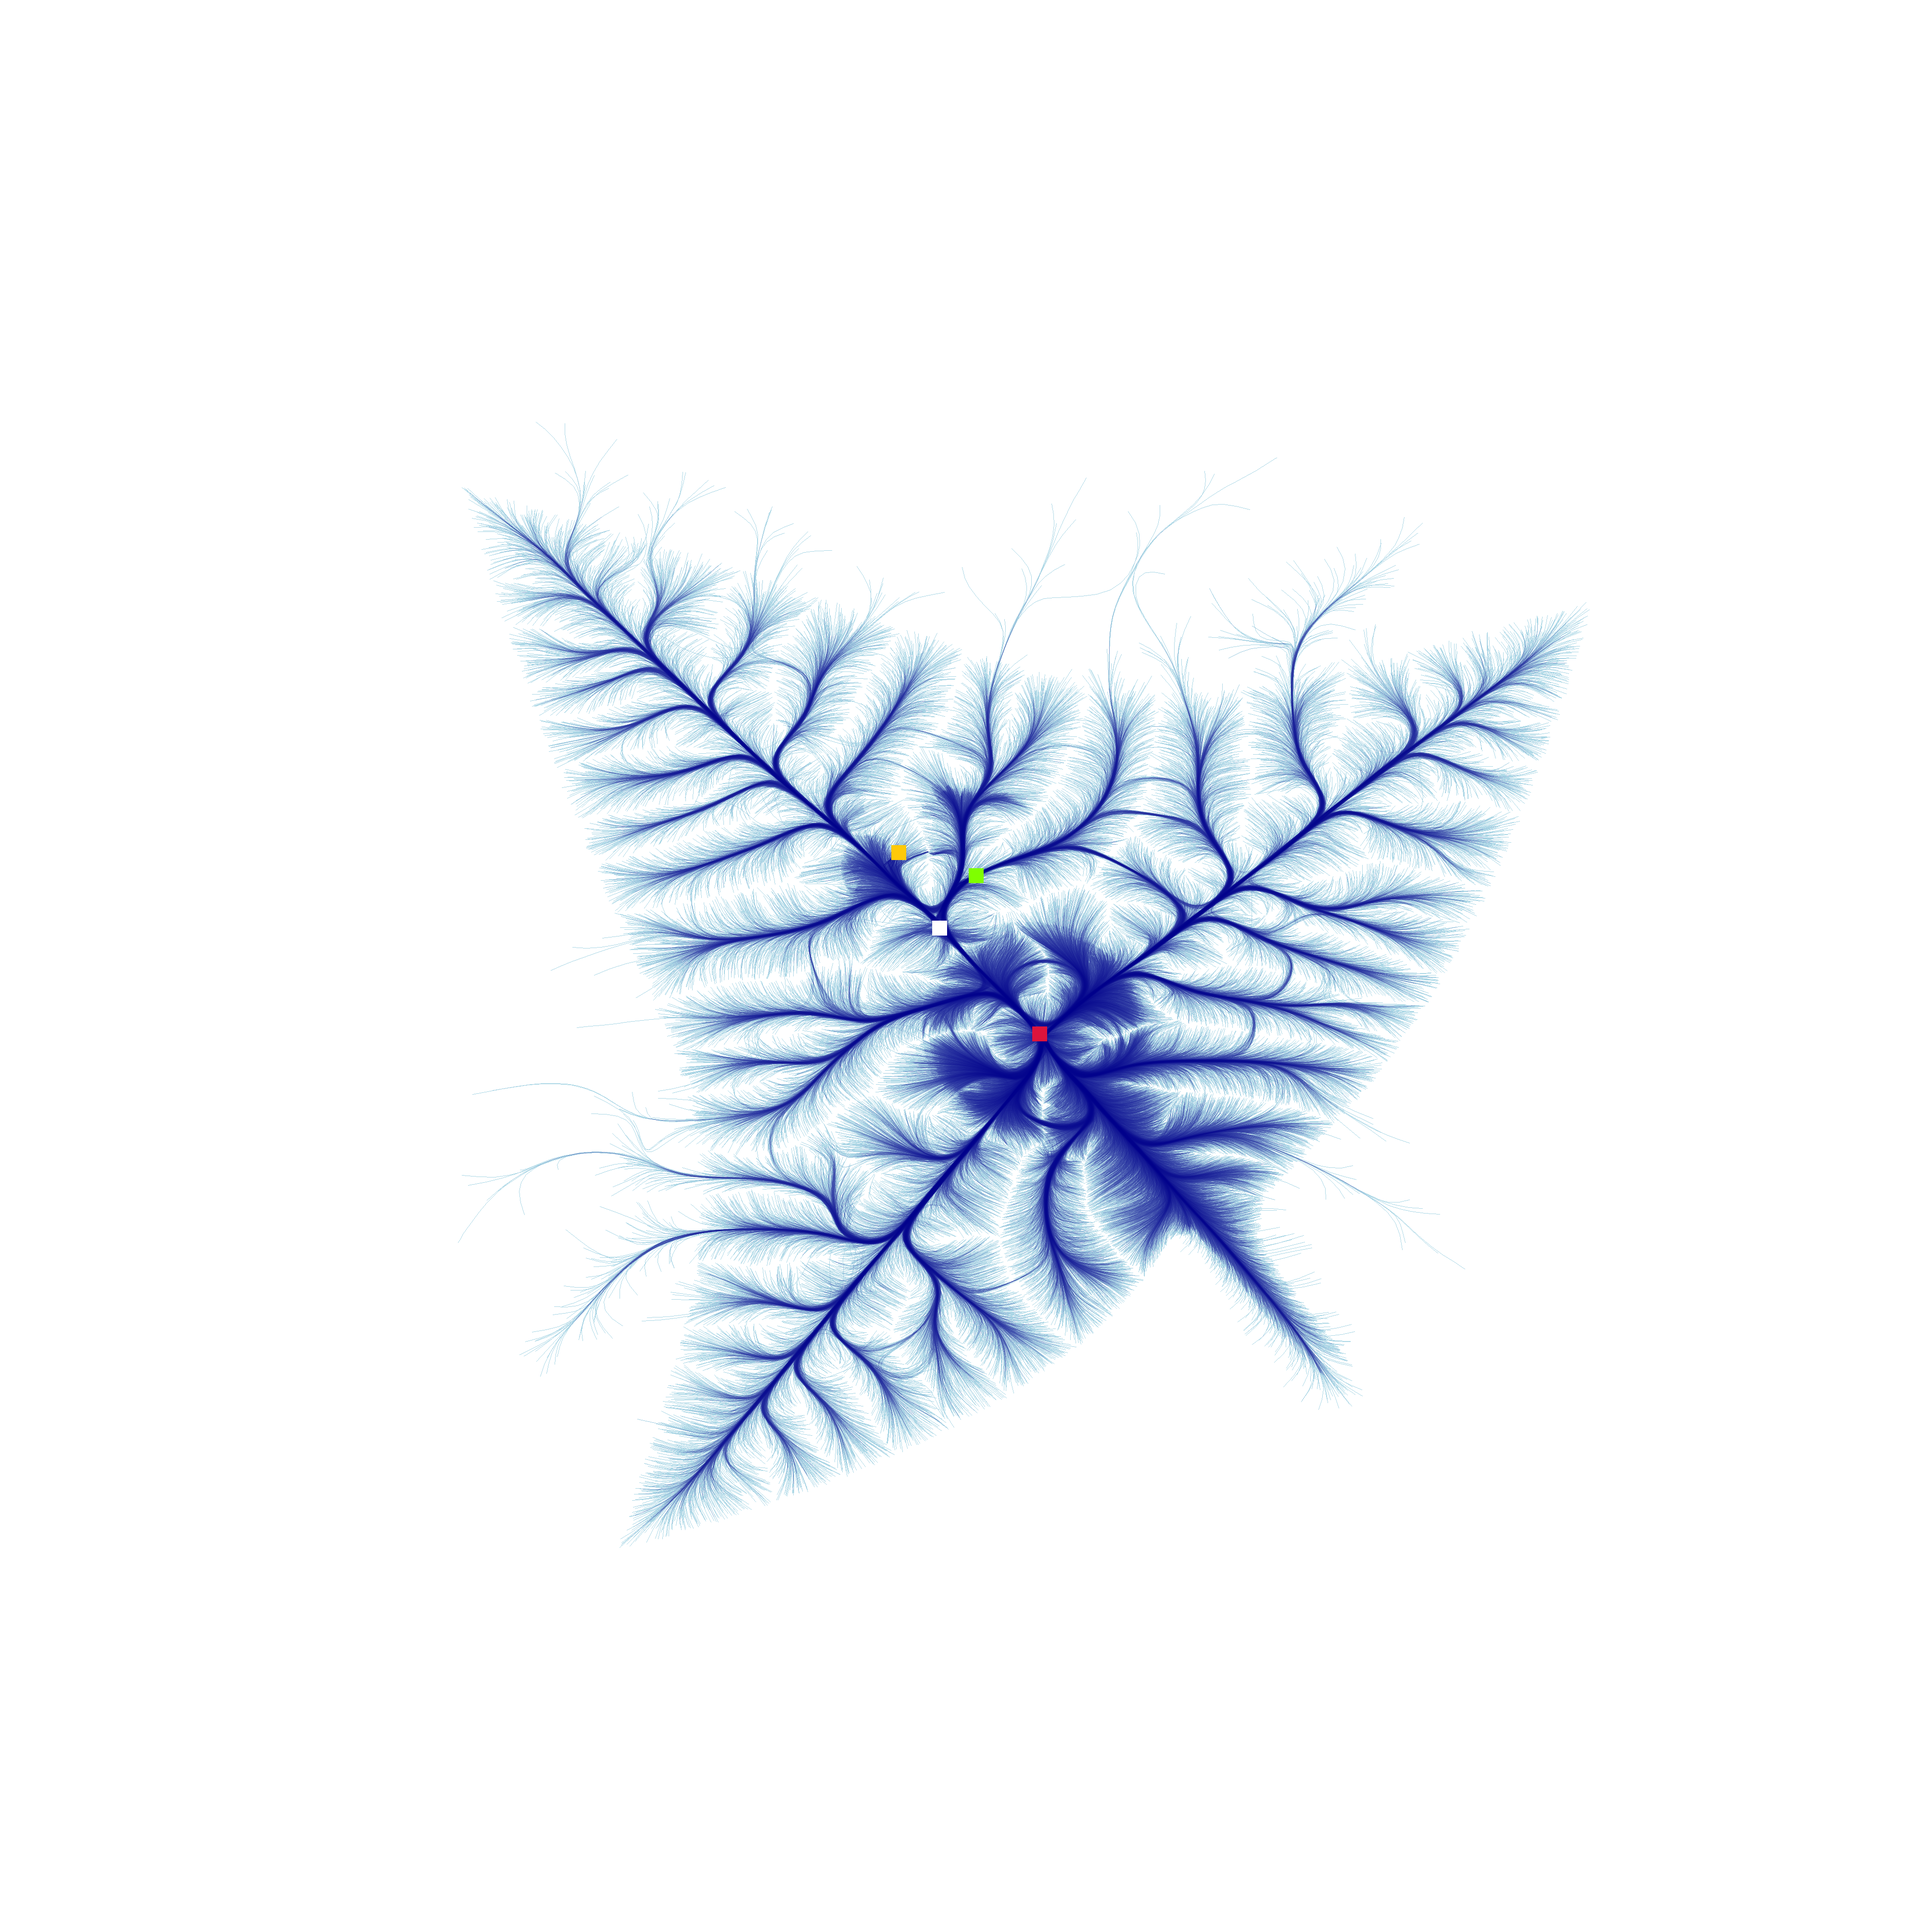
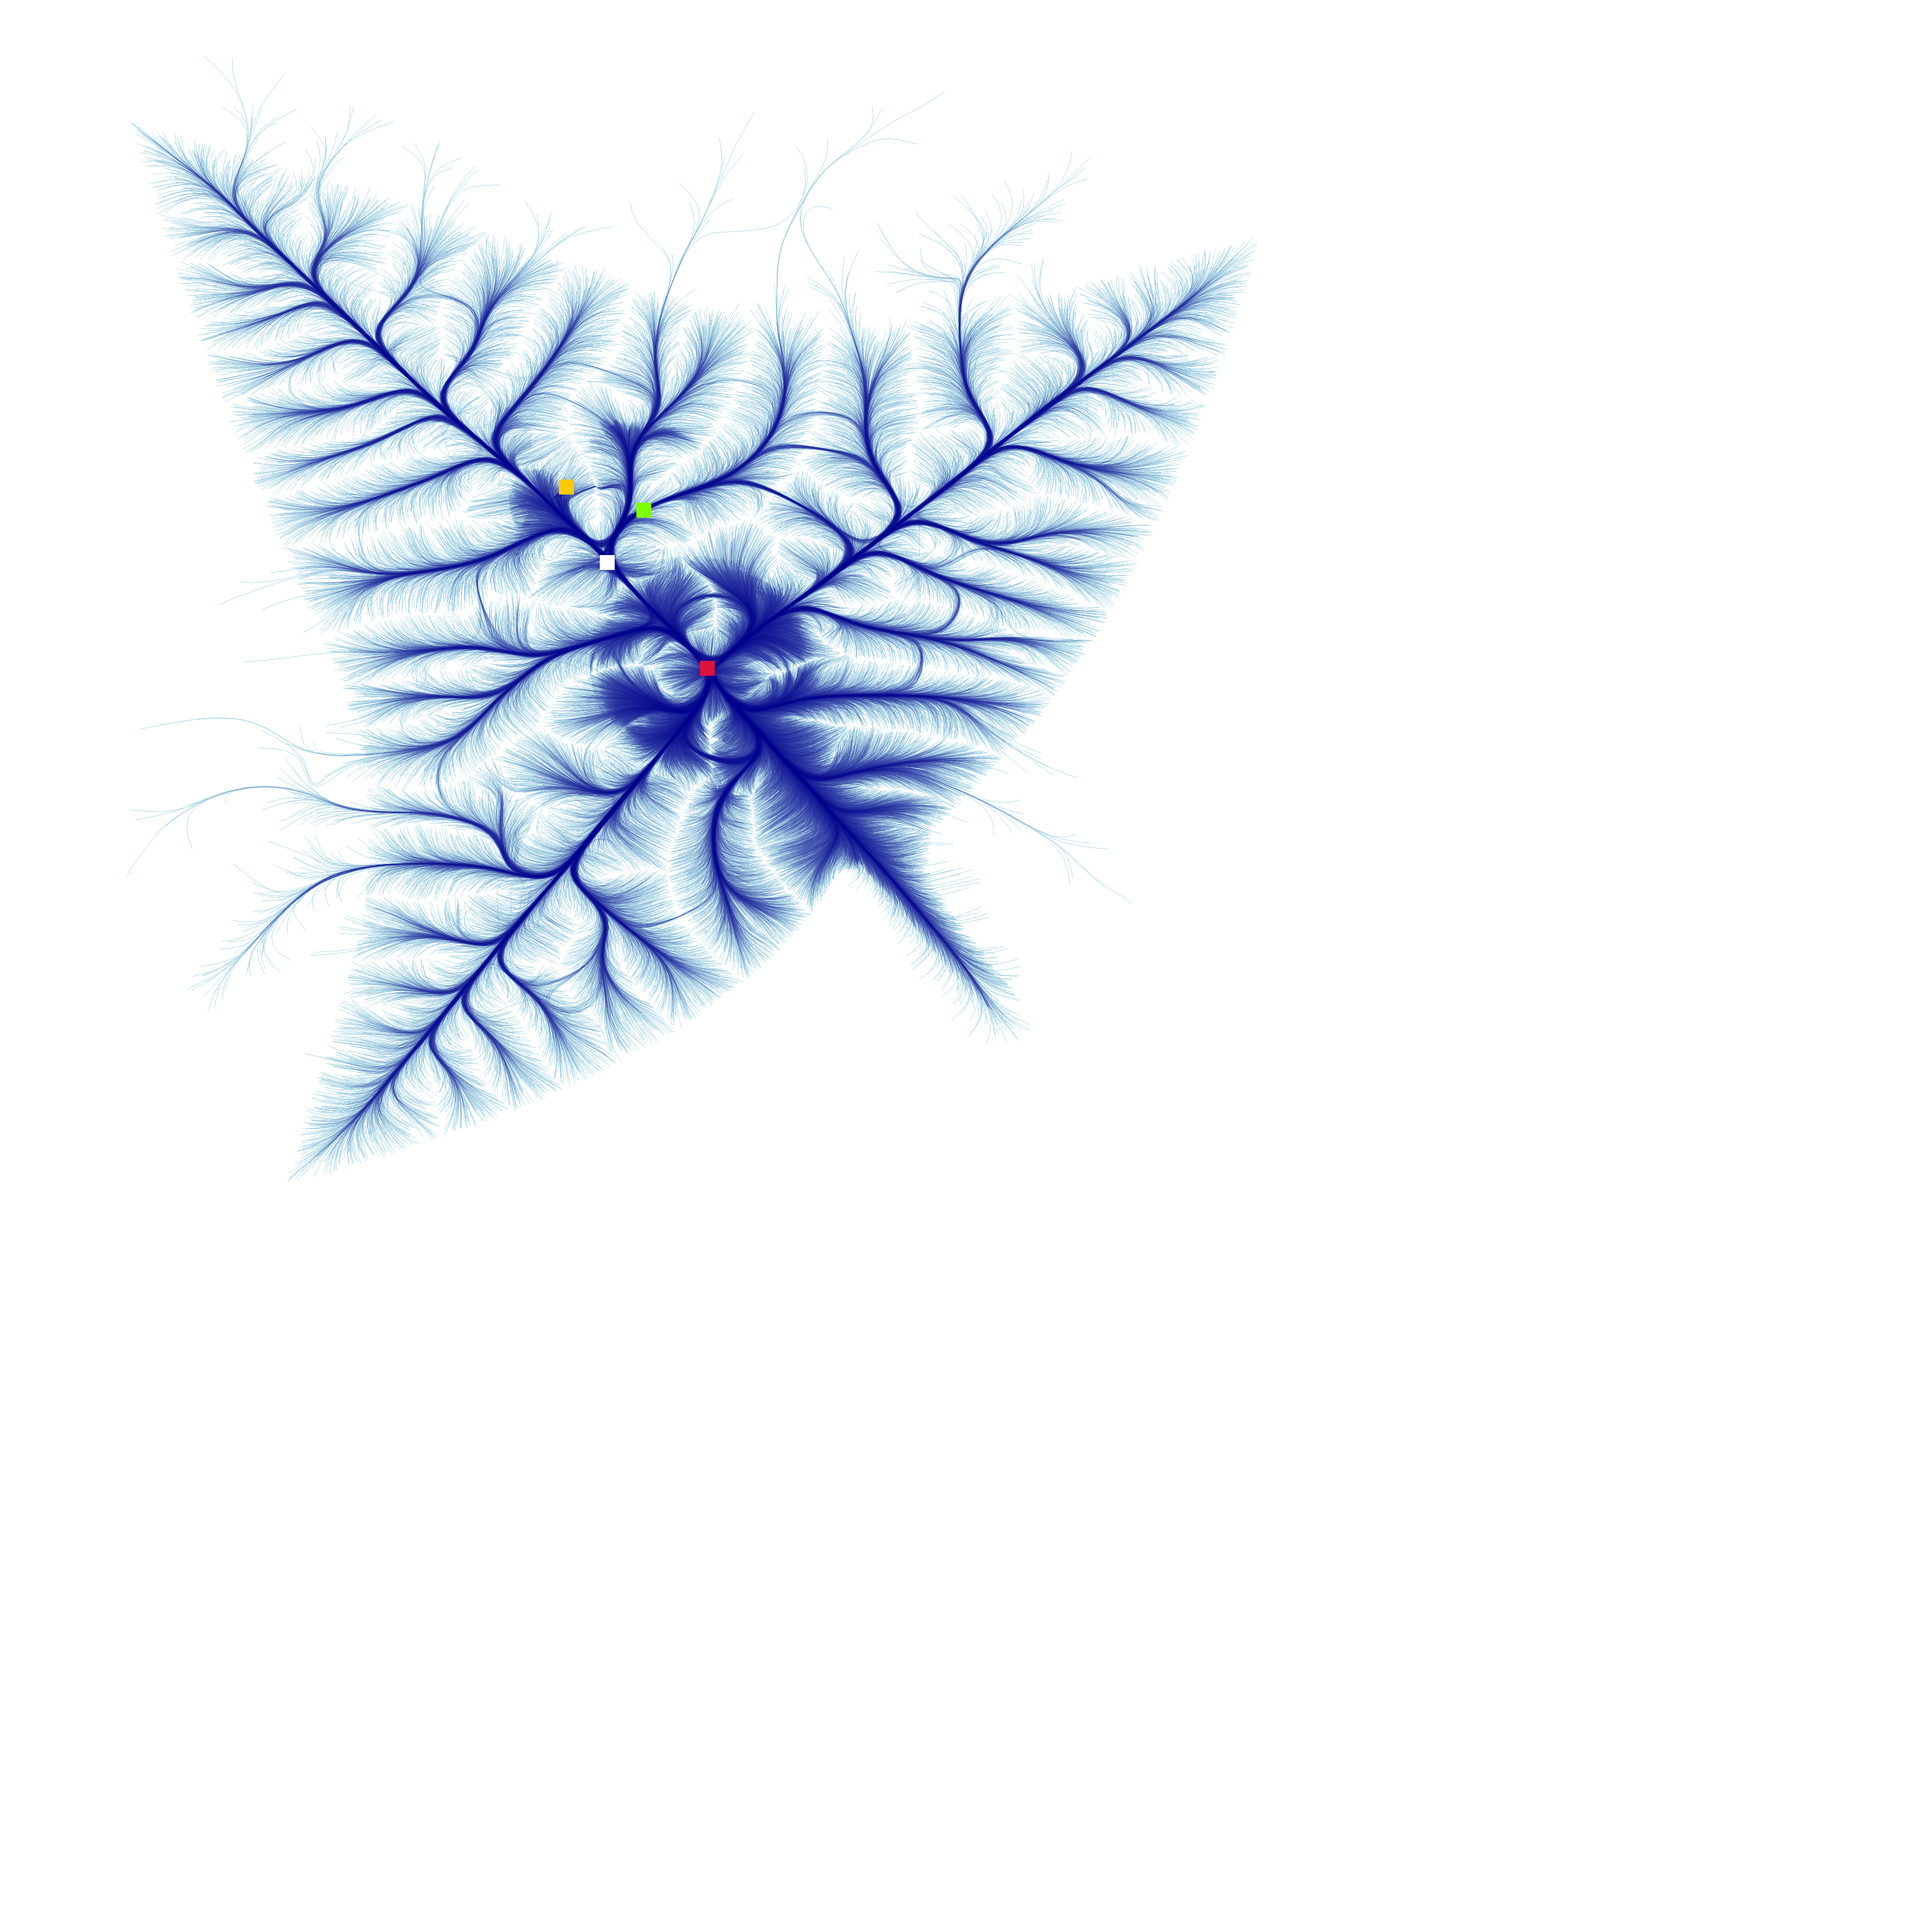
doc: 1st draw of exploratory analysis

Changed region(s): [[0.0625, 0.0625, 0.8125, 0.8125], [0.6875, 0.2812, 0.7188, 0.3125], [0.125, 0.4688, 0.1562, 0.5]]

diff --git a/src/frontend/layouts/page3.py b/src/frontend/layouts/page3.py
@@ -1,5 +1,77 @@
 import streamlit as st
 
+COLOR_KEY = {
+    "curve_dao_count": "#FF6347",
+    "aave_count": "#4e000b",
+    "uniswap_count": "#1e8b22",
+    "maker_count": "#ffc909",
+    "tether_count": "#DC143C",
+    "yearn_finance_count": "#c24ee2",
+    "usdc_count": "#00CED1",
+    "dai_count": "#FFFFFF",
+    "balancer_count": "#7FFF00",
+    "harvest_finance_count": "#efef24",
+    "nftfi_count": "#FF1493",
+}
 
 def page_3():
-    st.markdown('<div class="header">Anomaly Detection_</div>', unsafe_allow_html=True)
+    st.markdown('<div class="header">Exploratory Analysis_</div>', unsafe_allow_html=True)
+    st.write(""" 
+    
+Following the feature engineering process, the exploratory analysis provides first draw of insights into user behavior and protocol interactions within the DeFi ecosystem. A variety of visualizations are used to illustrate the relationships between users, protocols, and market metrics.
+    
+---
+
+## Transactions Volumes and Values_  /!\ To review
+
+    """)
+
+    st.image("docs/graphics/exploratory_analysis/tx_volumes_and_values.png", caption="")
+    col1, col2 = st.columns(2)
+    with col1:
+        st.write("""
+        ### Transactions Volumes_
+        This graph shows the number of transactions sent and received by users.
+        #### Distribution :
+        Il y a une concentration notable de points le long de la diagonale, ce qui suggère que pour de nombreux utilisateurs, le nombre de transactions envoyées est similaire au nombre de transactions reçues.
+        
+        #### Observations :
+        La densité des points diminue à mesure que l'on s'éloigne de l'origine, indiquant que les transactions élevées (envoi ou réception) sont moins fréquentes.
+        """)
+    with col2:
+        st.write("""
+        ### Transactions Values_
+        This graph shows the total value of transactions sent and received by users.
+        #### Distribution :
+        Les points sont largement dispersés, mais il y a une concentration le long de la diagonale, indiquant que pour de nombreux utilisateurs, la valeur totale de l'ETH envoyé est proche de la valeur totale de l'ETH reçu.
+
+        #### Observations :
+        La concentration le long de la diagonale suggère un équilibre entre les valeurs envoyées et reçues pour de nombreux utilisateurs.
+        Les points en dehors de la diagonale indiquent des utilisateurs avec des déséquilibres significatifs, on constate notamment que les valeurs totales envoyées sont généralement plus élevées que les totales reçues.
+        
+        """)
+
+
+    st.write("""
+## Network Analysis_
+The network analysis provides an abstract vision of relationships between user addresses and DeFi protocols. By visualizing the connections between users and protocols, we can identify patterns in user behavior and protocol interactions.   
+
+#### Protocols Network_
+    
+This graph represents the network of user addresses and the protocols they interact with.  
+Each node represents a user address and each edge represents a transaction between a user and a protocol.  
+
+> **Note:** This graph contains only 100 000 users against 6 876 845 in the real dataset.
+
+        """)
+    col1, col2 = st.columns([1, 5])
+    with col1:
+        st.write("""
+        """)
+        st.write("**Legend:**")
+        for protocol, color in COLOR_KEY.items():
+            st.markdown(f"<span style='color: {color};'>■</span> {protocol.replace('_', ' ').title()}",
+                        unsafe_allow_html=True)
+    with col2:
+        st.image("docs/graphics/network/address_protocol_nx_plot.png", caption="")
+

diff --git a/src/frontend/layouts/page0.py b/src/frontend/layouts/page0.py
@@ -1,6 +1,20 @@
 import streamlit as st
 import streamlit.components.v1 as components
 
+COLOR_KEY = {
+    "curve_dao_count": "#FF6347",
+    "aave_count": "#4e000b",
+    "uniswap_count": "#1e8b22",
+    "maker_count": "#ffc909",
+    "tether_count": "#DC143C",
+    "yearn_finance_count": "#c24ee2",
+    "usdc_count": "#00CED1",
+    "dai_count": "#FFFFFF",
+    "balancer_count": "#7FFF00",
+    "harvest_finance_count": "#efef24",
+    "nftfi_count": "#FF1493",
+}
+
 def page_0():
     st.markdown(
         '<div class="header">Introduction_</div>',
@@ -70,8 +84,30 @@ The features files are also available in the [Hugging Face Hub](https://huggingf
     ></iframe>
     '''
     components.html(iframe_features, height=600)
+    st.write("""
+---
 
+## Network Analysis_
+The network analysis provides an abstract vision of relationships between user addresses and DeFi protocols. By visualizing the connections between users and protocols, we can identify patterns in user behavior and protocol interactions.   
 
+#### Protocols Network_
+    
+This graph represents the network of user addresses and the protocols they interact with.  
+Each node represents a user address and each edge represents a transaction between a user and a protocol.  
+
+> **Note:** This graph contains only 100 000 users against 6 876 845 in the real dataset.
+
+        """)
+    col1, col2 = st.columns([1, 5])
+    with col1:
+        st.write("""
+        """)
+        st.write("**Legend:**")
+        for protocol, color in COLOR_KEY.items():
+            st.markdown(f"<span style='color: {color};'>■</span> {protocol.replace('_', ' ').title()}",
+                        unsafe_allow_html=True)
+    with col2:
+        st.image("docs/graphics/network/address_protocol_nx_plot.png", caption="")
 
 
 

diff --git a/src/frontend/layout.py b/src/frontend/layout.py
@@ -34,7 +34,7 @@ def app_layout():
             "# Introduction_",
             "# Data Collection_",
             "# Features Engineering_",
-            "# Anomaly Detection_",
+            "# Exploratory Analysis_",
             "# Summary of Results_",
         ],
     )
@@ -94,7 +94,7 @@ def app_layout():
         page_1()
     elif st.session_state.page == "# Features Engineering_":
         page_2()
-    elif st.session_state.page == "# Anomaly Detection_":
+    elif st.session_state.page == "# Exploratory Analysis_":
         page_3()
     elif st.session_state.page == "# Summary of Results_":
         page_4()
